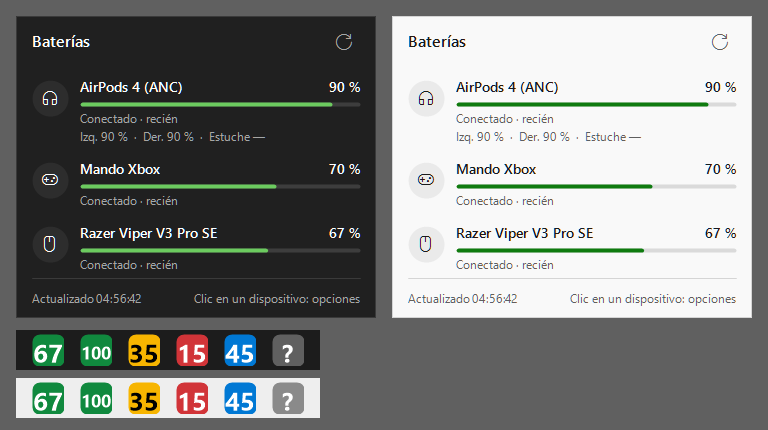
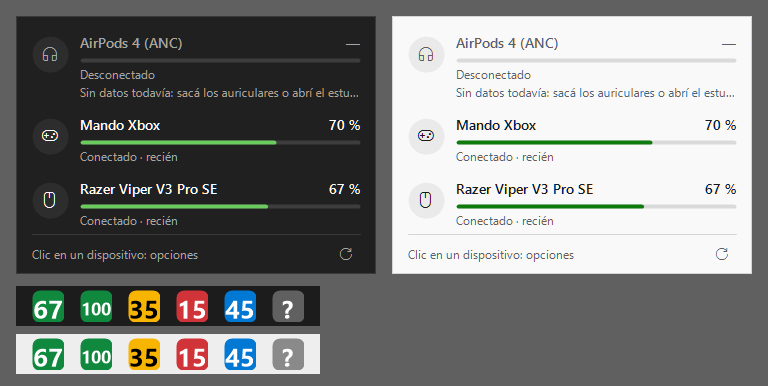
Ventana: sin título ni hora de actualización
El botón de actualizar pasa al pie, a la derecha.

diff --git a/src/BatteryTray.App/DevicePopup.cs b/src/BatteryTray.App/DevicePopup.cs
@@ -13,7 +13,7 @@ internal sealed class DevicePopup : Form
     // Medidas en píxeles a 96 DPI; se escalan con Px().
     const int PopupWidth = 360;
     const int Pad = 16;
-    const int HeaderHeight = 52;
+    const int TopPadding = 8;
     const int RowHeight = 64;
     const int ExtraLineHeight = 18;
     const int EmptyHeight = 64;
@@ -236,7 +236,7 @@ internal sealed class DevicePopup : Form
     int ContentHeight()
     {
         var rows = _devices.Count == 0 ? EmptyHeight : _devices.Sum(d => RowHeight + (HasExtraLine(d) ? ExtraLineHeight : 0));
-        return HeaderHeight + rows + FooterHeight;
+        return TopPadding + rows + FooterHeight;
     }
 
     void PaintContent(Graphics g, Theme t)
@@ -248,20 +248,13 @@ internal sealed class DevicePopup : Form
         g.TextRenderingHint = System.Drawing.Text.TextRenderingHint.ClearTypeGridFit;
         g.Clear(t.Background);
 
-        using var titleFont = new Font("Segoe UI Semibold", 16 * s, GraphicsUnit.Pixel);
         using var nameFont = new Font("Segoe UI Semibold", 14 * s, GraphicsUnit.Pixel);
         using var smallFont = new Font("Segoe UI", 12 * s, GraphicsUnit.Pixel);
         using var glyphFont = new Font(Glyphs.FontName, 16 * s, GraphicsUnit.Pixel);
         using var smallGlyphFont = new Font(Glyphs.FontName, 12 * s, GraphicsUnit.Pixel);
 
-        // --- encabezado
-        DrawText(g, "Baterías", titleFont, t.Text, new RectangleF(Px(Pad), Px(14), width, Px(24)));
-        _refreshHit = new Rectangle(width - Px(Pad) - Px(32), Px(10), Px(32), Px(32));
-        if (_refreshHover) FillRounded(g, t.Surface, _refreshHit, 4 * s);
-        DrawText(g, Glyphs.Refresh, glyphFont, _refreshing ? t.Accent : t.SecondaryText, _refreshHit, StringAlignment.Center, StringAlignment.Center);
-
         // --- filas
-        var y = Px(HeaderHeight);
+        var y = Px(TopPadding);
         _rowHits.Clear();
         if (_devices.Count == 0)
         {
@@ -286,9 +279,12 @@ internal sealed class DevicePopup : Form
         using (var pen = new Pen(t.Border))
             g.DrawLine(pen, Px(Pad), y, width - Px(Pad), y);
         var footerRect = new RectangleF(Px(Pad), y, width - 2 * Px(Pad), Px(FooterHeight));
-        var footer = _updated is DateTimeOffset u ? $"Actualizado {u.ToLocalTime():HH:mm:ss}" : "Consultando…";
-        DrawText(g, footer, smallFont, t.SecondaryText, footerRect, StringAlignment.Near, StringAlignment.Center);
-        DrawText(g, "Clic en un dispositivo: opciones", smallFont, t.SecondaryText, footerRect, StringAlignment.Far, StringAlignment.Center);
+        DrawText(g, "Clic en un dispositivo: opciones", smallFont, t.SecondaryText, footerRect, StringAlignment.Near, StringAlignment.Center);
+
+        // Botón de actualizar, a la derecha del pie (azul mientras consulta).
+        _refreshHit = new Rectangle(width - Px(Pad) - Px(28), y + (Px(FooterHeight) - Px(28)) / 2, Px(28), Px(28));
+        if (_refreshHover) FillRounded(g, t.Surface, _refreshHit, 4 * s);
+        DrawText(g, Glyphs.Refresh, smallGlyphFont, _refreshing ? t.Accent : t.SecondaryText, _refreshHit, StringAlignment.Center, StringAlignment.Center);
 
         using (var border = new Pen(t.Border))
             g.DrawRectangle(border, 0, 0, width - 1, height - 1);
